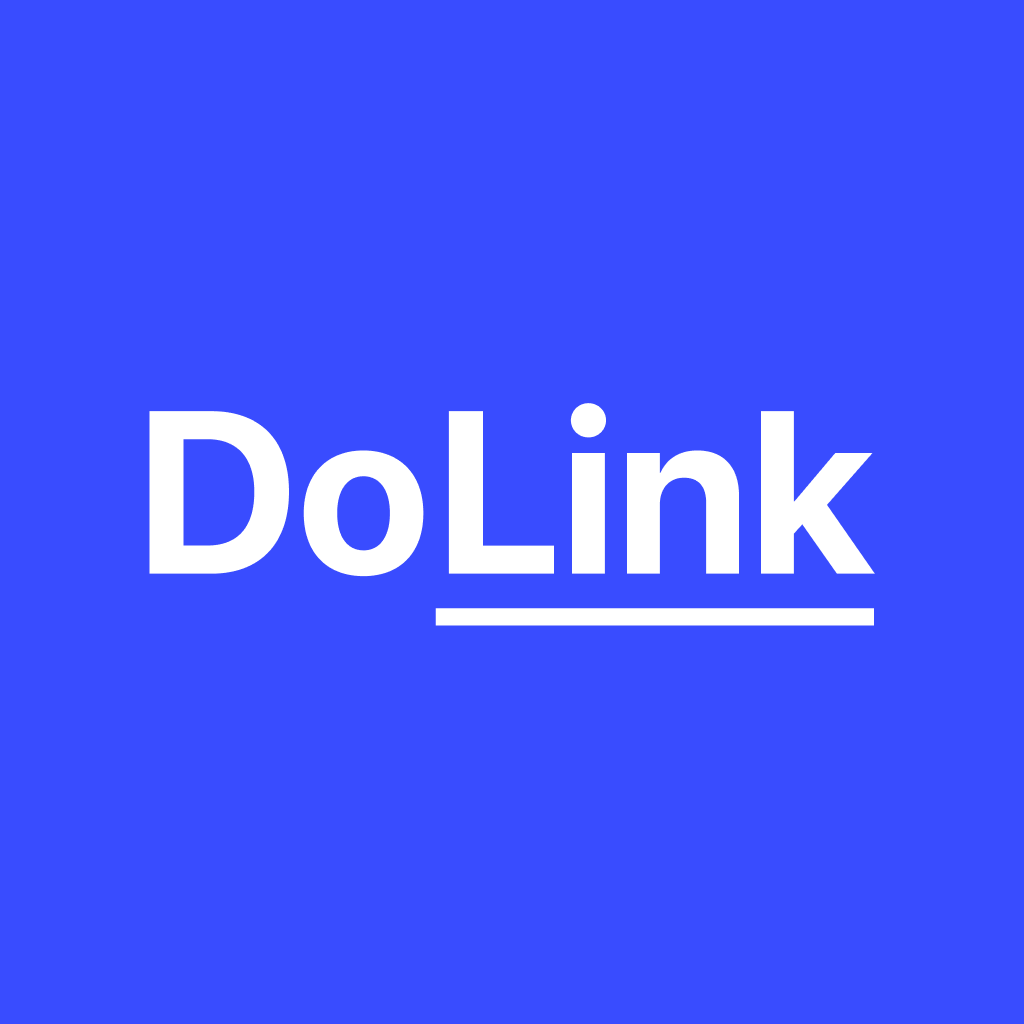
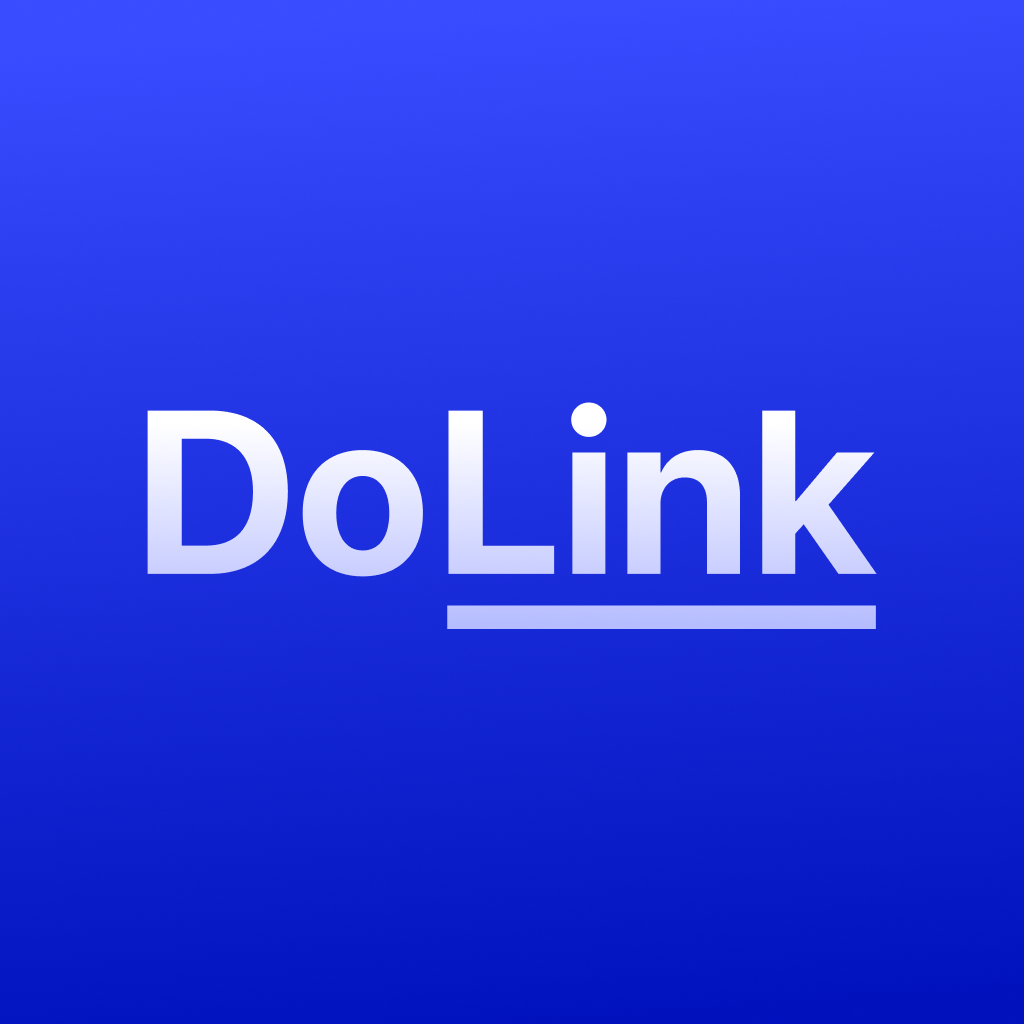
chore: 아이콘 업데이트

diff --git a/app.config.js b/app.config.js
@@ -37,7 +37,7 @@ export default {
       edgeToEdgeEnabled: true,
       predictiveBackGestureEnabled: false,
       package: 'com.teamdolink.dolink',
-      versionCode: 5,
+      versionCode: 6,
     },
     web: {
       favicon: './assets/favicon.png',
